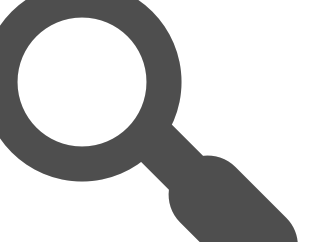
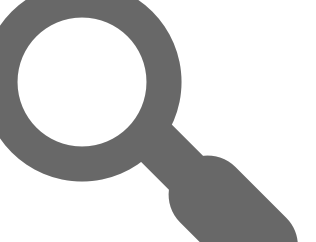
fix: design.

diff --git a/src/builder/template/css/style.css b/src/builder/template/css/style.css
@@ -314,7 +314,7 @@ footer, .file-footer {
 }
 
 .search-box img {
-  width: 24px;
+  width: 20px;
   vertical-align: top;
 }
 
